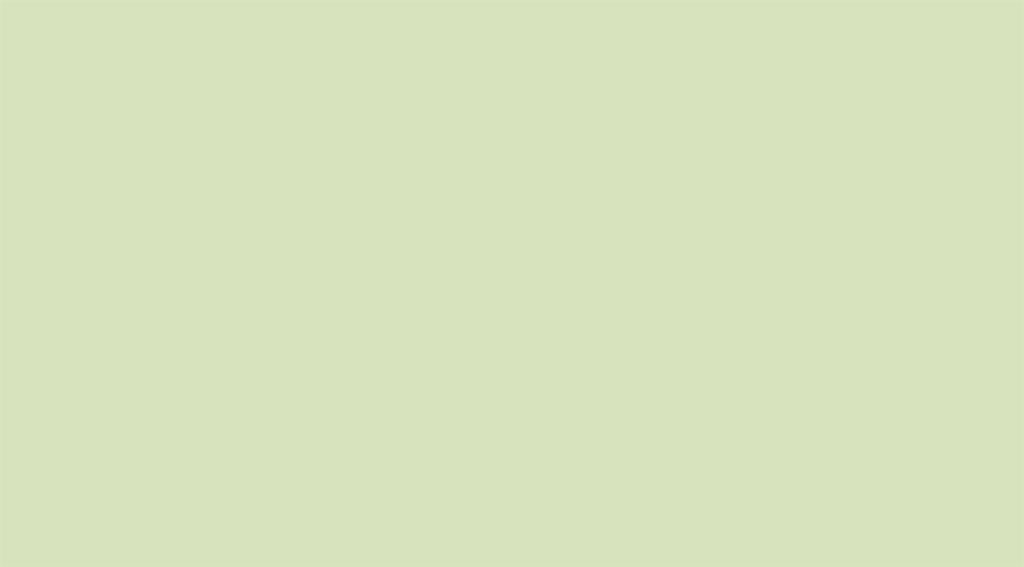
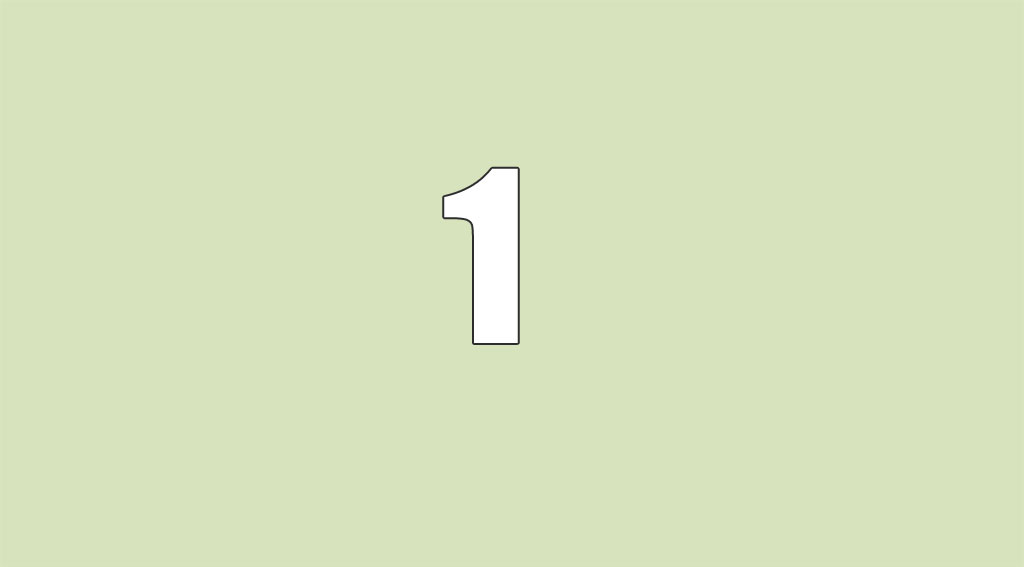
Implement slider

Changed region(s): [[0.4062, 0.2698, 0.5312, 0.6296]]

diff --git a/js/app/structures/site/views/view-slider.js b/js/app/structures/site/views/view-slider.js
@@ -1,0 +1,71 @@
+define([
+    'underscore',
+    'structures/site/views/view-slide',
+], function(_, SlideView){
+    return Backbone.View.extend({
+        
+        events: {
+            
+        },
+
+        initialize: function(){
+            this.index = 0;
+            this.images = [];
+            _.each(this.$el.find('img'), $.proxy(function(img, key){
+                var delay = $(img).data('delay');
+                var view = new SlideView()
+                view.setElement(img)
+                this.images.push(view);
+            }, this));
+        },
+
+        next:function() {
+            this.index++;
+            if (this.index > this.images.length-1) {
+                this.index = 0;
+            }
+            return this;
+        },
+
+        prev:function() {
+            this.index--;
+            if (this.index < 0) {
+                this.index = this.images.length-1;
+            }
+            return this;
+        },
+
+        slide: function() {
+            return this.images[this.index];
+        },
+
+        start: function() {
+            // Show current slide
+            var defer = this.slide().render()
+
+            // Set timeout after the showing
+            defer.done((function(){
+                setTimeout(this.showNext.bind(this), this.slide().getDelay());
+            }).bind(this));
+        },
+
+        showNext: function() {
+            // Hide current slide
+            var defer = this.slide().hide();
+            
+            // Show next slide after the hiding
+            defer.pipe((function(){
+                return this.next().slide().render();
+            }).bind(this));
+            
+            // Set timeout after the showing
+            defer.done((function(){
+                setTimeout(this.showNext.bind(this), this.slide().getDelay());
+            }).bind(this))
+        },
+
+        render:  function (){
+            this.start();
+        },
+    });
+});

diff --git a/js/app/structures/site/views/view-slide.js b/js/app/structures/site/views/view-slide.js
@@ -1,0 +1,38 @@
+define([
+    
+], function(){
+    return Backbone.View.extend({
+        
+        events: {
+            
+        },
+
+        initialize: function(){
+            this.delay = 800;
+        },
+
+        render:  function (){
+            var defer = $.Deferred();
+            this.$el
+                .css({display: "block"})
+                .animate({opacity: 1}, this.delay, defer.resolve);
+
+            return defer.promise();
+        },
+
+        hide:  function (){
+            var defer = $.Deferred();
+            this.$el.animate({opacity: 0}, this.delay, defer.resolve);
+            
+            defer.done($.proxy(function(){
+                this.$el.hide()
+            }, this));
+
+            return defer.promise();
+        },
+
+        getDelay: function() {
+            return this.$el.data('delay') * 1000;
+        }
+    });
+});

diff --git a/js/app/structures/index.js b/js/app/structures/index.js
@@ -5,8 +5,9 @@ define([
     'structures/site/views/view-add-task',
     'structures/site/views/view-add-task-filter',
     'structures/site/views/view-main-table',
+    'structures/site/views/view-slider',
     //'bootstrap'
-], function(AddTaskView, AddTaskFilterView, MainTableView){
+], function(AddTaskView, AddTaskFilterView, MainTableView, SliderView){
 
     var Index = Backbone.View.extend({
 
@@ -62,6 +63,10 @@ define([
 
             (new MainTableView({
                 el: '#block-main-table'
+            })).render();
+
+            (new SliderView({
+                el: '#main-slider'
             })).render();
 
             //Accordion

diff --git a/css/tourist.css b/css/tourist.css
@@ -1152,7 +1152,9 @@ label.with-help {margin-bottom: 0;}
 }
 
 #main-slider {text-align: center; margin-bottom: 16px;}
-#main-slider img {border: 1px solid #999; width: 100%;}
+#main-slider img {border: 1px solid #999; width: 100%; display: none; opacity: 0;}
+#main-slider img:first-child{display: inline-block;}
+#main-slider .wraper {}
 
 #ticker {background-color: #fde9d9;}
 #ticker .text {text-align: center; font-size: 18px;}

diff --git a/js/app/structures/site/views/view-main-table.js b/js/app/structures/site/views/view-main-table.js
@@ -93,7 +93,6 @@ define([
         },
 
         render:  function (){
-            console.log(!!$.cookie('main-slider'));
             if (!!$.cookie('main-slider') === false) {
                 this.scrollTo('main-slider', 10, 500);
                 var cookURL =  $.cookie('main-slider', 1, { expires: 360 }); 

diff --git a/js/app/structures/site/models/slide.js b/js/app/structures/site/models/slide.js
@@ -1,0 +1,17 @@
+define([
+    
+], function(){
+    return Backbone.View.extend({
+        
+        events: {
+            
+        },
+
+        initialize: function(){
+            
+        },
+
+        render:  function (){
+        },
+    });
+});

diff --git a/js/app/main.js b/js/app/main.js
@@ -7,7 +7,7 @@ var Session = {
 };
 
 require.config({
-    urlArgs: "ver=1.0.14",
+    urlArgs: "ver=1.0.15",
     paths: {
         //"jquery": "vendor/jquery/dist/jquery.min",
         "jquery": "vendor/jquery/jquery",

diff --git a/protected/views/site/index.php b/protected/views/site/index.php
@@ -8,6 +8,7 @@
  */
 
 use application\modules\admin\models\Text;
+use application\models\entities\Configuration;
 
 ?>
 <section id="blank" class="container-fluid" data-structure="index">
@@ -173,7 +174,28 @@ use application\modules\admin\models\Text;
 
     <div class="row" id="main-slider">
         <div class="col-md-8 col-md-offset-2">
-            <img src="/img/slider-1.jpg" alt="">
+            <div class="wraper">
+                <img src="/img/slider-1.jpg" alt=""  class="first"
+                    data-delay="<?php echo Configuration::get(Configuration::SLIDE_SHOWING_TIME_1); ?>">
+                <img src="/img/slider-2.jpg" alt="" 
+                    data-delay="<?php echo Configuration::get(Configuration::SLIDE_SHOWING_TIME_2); ?>">
+                <img src="/img/slider-3.jpg" alt="" 
+                    data-delay="<?php echo Configuration::get(Configuration::SLIDE_SHOWING_TIME_3); ?>">
+                <img src="/img/slider-4.jpg" alt="" 
+                    data-delay="<?php echo Configuration::get(Configuration::SLIDE_SHOWING_TIME_4); ?>">
+                <img src="/img/slider-5.jpg" alt="" 
+                    data-delay="<?php echo Configuration::get(Configuration::SLIDE_SHOWING_TIME_5); ?>">
+                <img src="/img/slider-6.jpg" alt="" 
+                    data-delay="<?php echo Configuration::get(Configuration::SLIDE_SHOWING_TIME_6); ?>">
+                <img src="/img/slider-7.jpg" alt="" 
+                    data-delay="<?php echo Configuration::get(Configuration::SLIDE_SHOWING_TIME_7); ?>">
+                <img src="/img/slider-8.jpg" alt="" 
+                    data-delay="<?php echo Configuration::get(Configuration::SLIDE_SHOWING_TIME_8); ?>">
+                <img src="/img/slider-9.jpg" alt="" 
+                    data-delay="<?php echo Configuration::get(Configuration::SLIDE_SHOWING_TIME_9); ?>">
+                <img src="/img/slider-10.jpg" alt="" 
+                    data-delay="<?php echo Configuration::get(Configuration::SLIDE_SHOWING_TIME_10); ?>">
+            </div>
         </div>
         
     </div>
